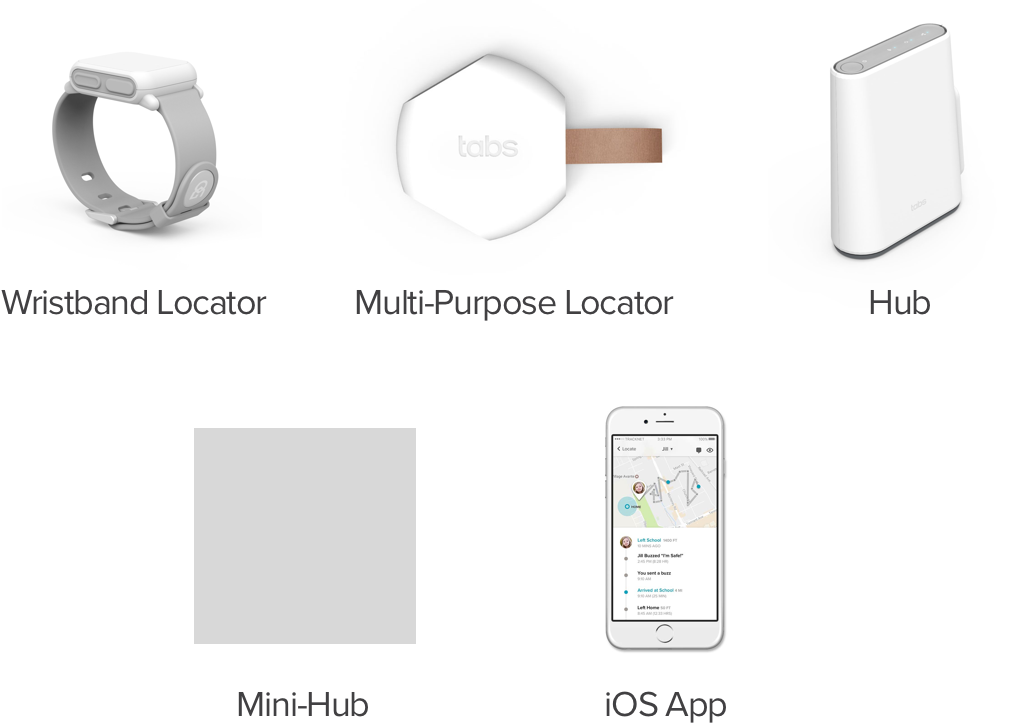
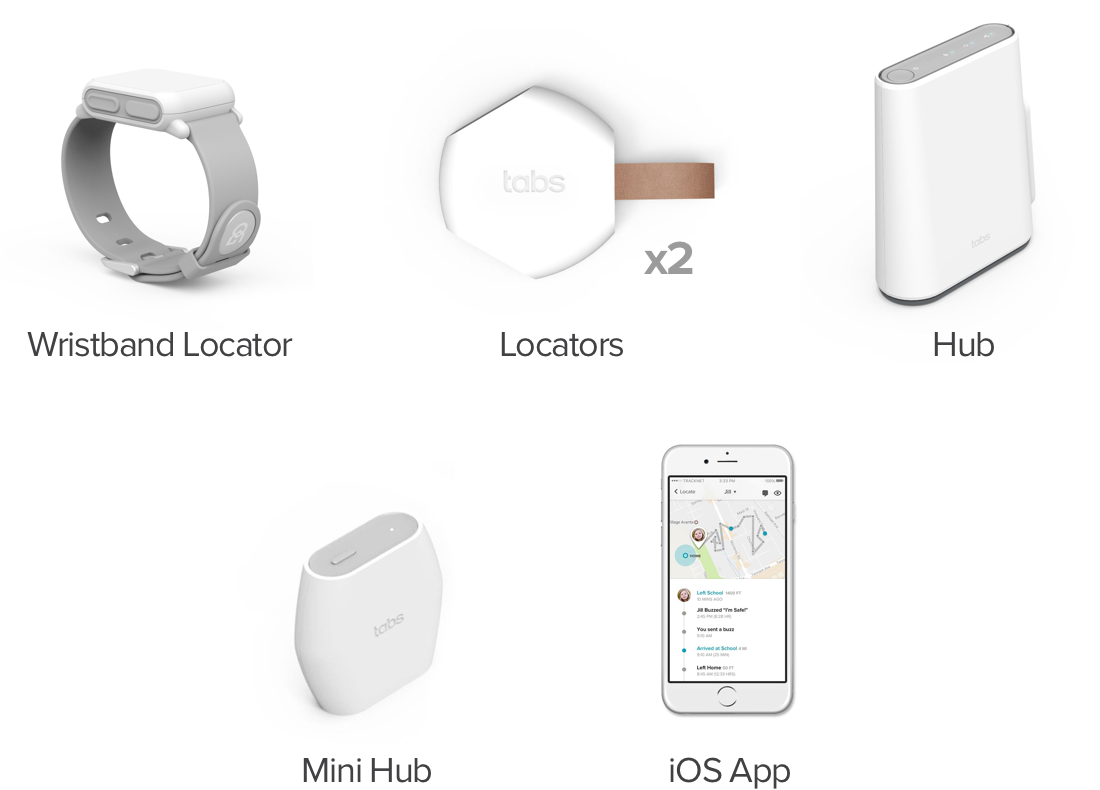
Updated images. Responsive adjustments

diff --git a/css/styles.css b/css/styles.css
@@ -735,94 +735,126 @@ html, body {
     height: 640px;
     top: 130px;
     z-index: 9999; }
-
-.pre-order h3 {
-  font-size: 44px;
-  line-height: 55px;
-  font-family: 'Henderson', Georgia, sans-serif;
-  font-weight: 400;
-  margin-bottom: 23px; }
-
-.pre-order p {
-  font-size: 22px;
-  line-height: 28px;
-  font-family: 'Proxima Nova', Georgia, sans-serif;
-  font-weight: 300;
-  color: #414042;
-  max-width: 858px; }
-
-.pre-order .image-wrap {
-  position: relative; }
-  .pre-order .image-wrap img {
-    width: 100%;
-    position: relative; }
-  .pre-order .image-wrap .overlay {
-    width: 100%;
-    height: 100%;
-    position: absolute;
-    background-color: transparent;
-    z-index: 100; }
-  .pre-order .image-wrap:hover {
-    cursor: pointer; }
-    .pre-order .image-wrap:hover .overlay {
-      background-color: rgba(0, 0, 0, 0.5); }
-
-.pre-order .orders-wrap {
-  margin-top: 30px;
-  clear: both;
-  float: none;
-  display: inline-block;
-  width: 100%; }
-  .pre-order .orders-wrap .pre-order-text h4 {
-    font-size: 26px;
-    line-height: 31px;
-    font-family: 'Proxima Nova', Georgia, sans-serif;
-    color: #414042;
-    text-align: center;
-    margin-bottom: 36px;
-    margin-top: 10px; }
-  .pre-order .orders-wrap .pre-order-text p {
-    color: #414042;
-    font-family: 'Proxima Nova', Georgia, sans-serif;
-    text-align: center;
+  .iframe p {
     font-size: 18px;
     line-height: 24px;
-    max-width: 476px;
-    margin: 0px auto; }
-  .pre-order .orders-wrap .security-text p {
-    max-width: 491px; }
-  .pre-order .orders-wrap .pre-order-btn button {
-    background: #00A2BA;
-    border-radius: 5px;
-    color: #fff;
     font-family: 'Proxima Nova', Georgia, sans-serif;
-    font-weight: 600;
-    border: none !important;
-    font-size: 22px;
-    line-height: 30px;
-    text-align: center;
-    padding: 15px 25px;
-    display: block;
-    margin: 60px auto; }
-  .pre-order .orders-wrap .included-wrap img {
-    display: block;
-    margin: 0px auto;
-    width: 100%;
-    max-width: 509px; }
-  .pre-order .orders-wrap .included-wrap p {
-    color: #414042;
-    font-weight: 500;
-    text-align: center;
-    font-size: 22px;
-    line-height: 26px; }
-  .pre-order .orders-wrap .included-wrap .sub-text {
-    font-size: 18px;
+    font-weight: 400;
     color: #8B8B8B;
-    line-height: 24px;
+    max-width: 65%;
+    margin: 0 auto;
     text-align: center;
-    max-width: 476px;
-    margin: 0px auto;
-    margin-top: 40px; }
+    margin-bottom: 150px; }
+    @media (max-width: 992px) {
+      .iframe p {
+        max-width: 85%;
+        margin-bottom: 75px; } }
+
+.pre-order {
+  height: auto;
+  clear: both;
+  float: none; }
+  .pre-order h3 {
+    font-size: 44px;
+    line-height: 55px;
+    font-family: 'Henderson', Georgia, sans-serif;
+    font-weight: 400;
+    margin-bottom: 23px;
+    letter-spacing: -3.02px; }
+    @media screen and (max-width: 1160px) {
+      .pre-order h3 {
+        padding: 40px 30px 0px 30px; } }
+  .pre-order p {
+    font-size: 22px;
+    line-height: 28px;
+    font-family: 'Proxima Nova', Georgia, sans-serif;
+    font-weight: 300;
+    color: #414042;
+    max-width: 858px;
+    letter-spacing: -0.53px; }
+    @media screen and (max-width: 1160px) {
+      .pre-order p {
+        padding: 10px 30px 50px 30px; } }
+  .pre-order .image-wrap {
+    position: relative; }
+    .pre-order .image-wrap img {
+      width: 100%;
+      position: relative; }
+    .pre-order .image-wrap .overlay {
+      width: 100%;
+      height: 100%;
+      position: absolute;
+      background-color: transparent;
+      z-index: 100; }
+    .pre-order .image-wrap:hover {
+      cursor: pointer; }
+      .pre-order .image-wrap:hover .overlay {
+        background-color: rgba(0, 0, 0, 0.5); }
+  .pre-order .orders-wrap {
+    margin-top: 10px;
+    clear: both;
+    float: none;
+    display: inline-block;
+    width: 100%; }
+    .pre-order .orders-wrap .pre-order-text h4 {
+      font-size: 26px;
+      line-height: 31px;
+      font-family: 'Proxima Nova', Georgia, sans-serif;
+      color: #414042;
+      text-align: center;
+      margin-bottom: 36px;
+      margin-top: 15px;
+      font-weight: normal;
+      letter-spacing: -0.63px; }
+    .pre-order .orders-wrap .pre-order-text p {
+      color: #414042;
+      font-family: 'Proxima Nova', Georgia, sans-serif;
+      text-align: center;
+      font-size: 18px;
+      line-height: 26px;
+      max-width: 476px;
+      margin: 0px auto;
+      letter-spacing: -0.85px; }
+      @media screen and (max-width: 992px) {
+        .pre-order .orders-wrap .pre-order-text p {
+          padding-bottom: 0px; } }
+    .pre-order .orders-wrap .security-text p {
+      max-width: 491px; }
+    .pre-order .orders-wrap .pre-order-btn button {
+      background: #00A2BA;
+      border-radius: 5px;
+      color: #fff;
+      font-family: 'Proxima Nova', Georgia, sans-serif;
+      font-weight: 600;
+      border: none !important;
+      font-size: 22px;
+      line-height: 30px;
+      text-align: center;
+      padding: 15px 25px;
+      display: block;
+      margin: 60px auto;
+      letter-spacing: -0.53px; }
+    .pre-order .orders-wrap .included-wrap img {
+      display: block;
+      margin: 0px auto;
+      width: 100%;
+      max-width: 509px; }
+    .pre-order .orders-wrap .included-wrap p {
+      color: #414042;
+      font-weight: 500;
+      text-align: center;
+      font-size: 22px;
+      line-height: 26px; }
+    .pre-order .orders-wrap .included-wrap .sub-text {
+      font-size: 18px;
+      color: #8B8B8B;
+      line-height: 24px;
+      text-align: center;
+      max-width: 476px;
+      margin: 0px auto;
+      margin-top: 40px;
+      letter-spacing: -0.85px;
+      font-weight: normal; }
 
 .modal .modal-dialog {
   max-width: 1129px;

diff --git a/index.html b/index.html
@@ -329,6 +329,11 @@
           <div class="overlay" onClick="style.pointerEvents='none'"></div>
           <iframe frameborder="0" src="http://ec2-54-172-130-209.compute-1.amazonaws.com:3000/itrackmaps"></iframe>
         </div>
+        <div class="row">
+          <div class="col-md-12">
+            <p>Each hub someone adds to their home, the network’s range is extended. The Tabs network grows as our users grow. However, we are working with providers to supply full area coverage in their areas with the goal of worldwide coverage soon after.</p>
+          </div>
+        </div>
       </div>
 
       <div class="pre-order">
@@ -346,11 +351,11 @@
               </div>
 
               <div class="pre-order-text">
-                <h4>Family Locator Kit<h4>
+                <h4>Family Locator Kit</h4>
                   <p>This kit includes Tabs&trade; child-sized Wristband Locator and our easy-to-use iOS app. The mobile app lets you monitor your child’s location and activities—anytime, anywhere. We've also included 2 general long-range, wireless Locators to help keep tabs on belongings that are susceptible to theft or loss. In addition to the home Hub, which broadcasts the Tabs&trade; signal for up to a half-mile, the kit also includes the Mini Hub. Plug it in at your child’s school, at grandma’s house, or at a neighbor's to provide coverage at the places your child frequents most.</p>
               </div>
               <div class="pre-order-btn">
-                <button>Pre-Order Kit - $249</button>
+                <button data-celery="58ebd77fddbba31200803779">Pre-Order Kit - $249</button>
               </div>
               <div class="included-wrap">
                 <p>Included</p>
@@ -365,12 +370,12 @@
 
               </div>
               <div class="pre-order-text security-text">
-                <h4>Home Health & Security Kit<h4>
+                <h4>Home Health & Security Kit</h4>
                   <p>Ensure the safety of your family and the security of your home from anywhere. Monitor multiple entries to your home with the 3 Door & Window Sensors and the 1 Motion Sensor included in this kit. Set custom alerts to be notified when a family member arrives home or if an intruder gains entry while your away.
                   Our Temperature & Humidity Sensor can alert you to extreme environmental shifts that could signal an issue inside a child’s bedroom or in your basement. Control your long-range, wireless Tabs&trade; devices using our easy-to-use mobile app on any iOS device. And remember, unlike most solutions, Tabs doesn’t require the extra expense of a cellular data plan for wireless coverage—our network is free! </p>
               </div>
-              <div class="pre-order-btn">
-                <button>Pre-Order Kit - $249</button>
+              <div class="pre-order-btn" >
+                <button data-celery="58ebd7cc2b6d531200e7bb21">Pre-Order Kit - $249</button>
               </div>
               <div class="included-wrap">
                 <p>Included</p>
@@ -418,7 +423,7 @@
       <div class="footer">
         <div class="row">
           <div class="col-md-12">
-            <p>Each hub someone adds to their home, the network’s range is extended. The Tabs network grows as our users grow. However, we are working with providers to supply full area coverage in their areas with the goal of worldwide coverage soon after.</p>
+
             <p class="copyright">© 2017 TrackNet Inc, USA and Trackio GmbH, Switzerland. All rights reserved.</p>
             <div class="social">
               <!-- <p>Follow Us</p> -->
@@ -478,6 +483,7 @@
   </div>
 
   <script src="js/scripts.js"></script>
+  <script async src="https://www.trycelery.com/js/celery.js"></script>
 
   <!-- Allo' there -->
 </body>

diff --git a/sass/styles.scss b/sass/styles.scss
@@ -911,15 +911,38 @@ html, body {
     top: 130px;
     z-index: 9999;
   }
+  p {
+    font-size: 18px;
+    line-height: 24px;
+    font-family: 'Proxima Nova', Georgia, sans-serif;
+    font-weight: 400;
+    color: $gray;
+    max-width: 65%;
+    margin: 0 auto;
+    text-align: center;
+    margin-bottom: 150px;
+    @media (max-width: $medium) {
+      max-width: 85%;
+      margin-bottom:75px;
+    }
+  }
 }
+
 // 12. Pre Order
 .pre-order{
+  height:auto;
+  clear: both;
+  float: none;
   h3 {
     font-size: 44px;
     line-height: 55px;
     font-family: 'Henderson', Georgia, sans-serif;
     font-weight: 400;
     margin-bottom:23px;
+    letter-spacing: -3.02px;
+    @media screen and (max-width: 1160px){
+      padding: 40px 30px 0px 30px;
+    }
   }
   p {
     font-size: 22px;
@@ -928,7 +951,11 @@ html, body {
     font-weight: 300;
     color: #414042;
     max-width: 858px;
+    letter-spacing: -0.53px;
     // margin: 0 auto;
+    @media screen and (max-width: 1160px){
+      padding: 10px 30px 50px 30px;
+    }
   }
   .image-wrap{
     position: relative;
@@ -952,7 +979,7 @@ html, body {
     }
   }
   .orders-wrap{
-    margin-top: 30px;
+    margin-top: 10px;
     clear: both;
     float: none;
     display: inline-block;
@@ -965,16 +992,22 @@ html, body {
         color:#414042;
         text-align: center;
         margin-bottom:36px;
-        margin-top:10px;
+        margin-top:15px;
+        font-weight: normal;
+        letter-spacing: -0.63px;
       }
       p{
         color:#414042;
         font-family: 'Proxima Nova', Georgia, sans-serif;
         text-align: center;
         font-size: 18px;
-        line-height: 24px;
+        line-height: 26px;
         max-width: 476px;
         margin: 0px auto;
+        letter-spacing: -0.85px;
+        @media screen and (max-width: $medium){
+          padding-bottom:0px;
+        }
       }
     }
     .security-text{
@@ -994,6 +1027,7 @@ html, body {
         padding: 15px 25px;
         display: block;
         margin:60px auto;
+        letter-spacing: -0.53px;
       }
     }
     .included-wrap{
@@ -1018,6 +1052,8 @@ html, body {
         max-width: 476px;
         margin: 0px auto;
         margin-top:40px;
+        letter-spacing: -0.85px;
+        font-weight: normal;
       }
     }
   }
